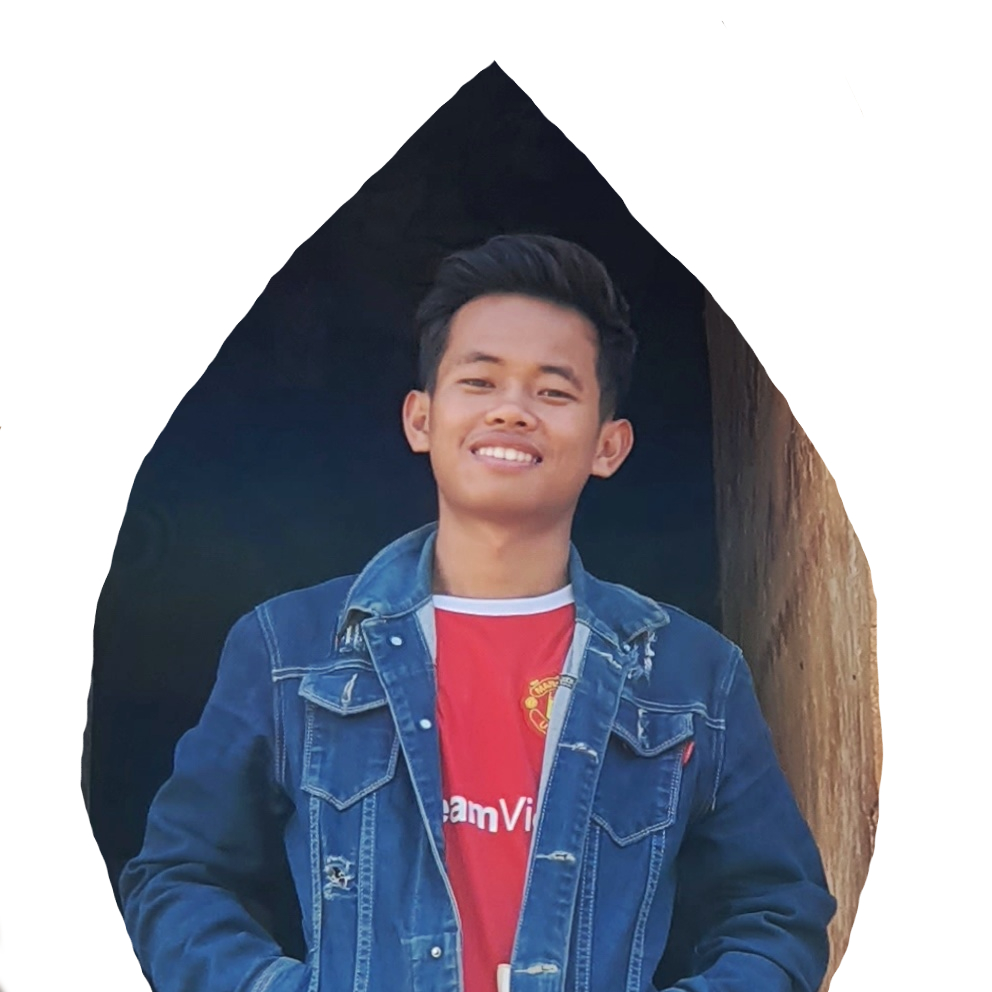
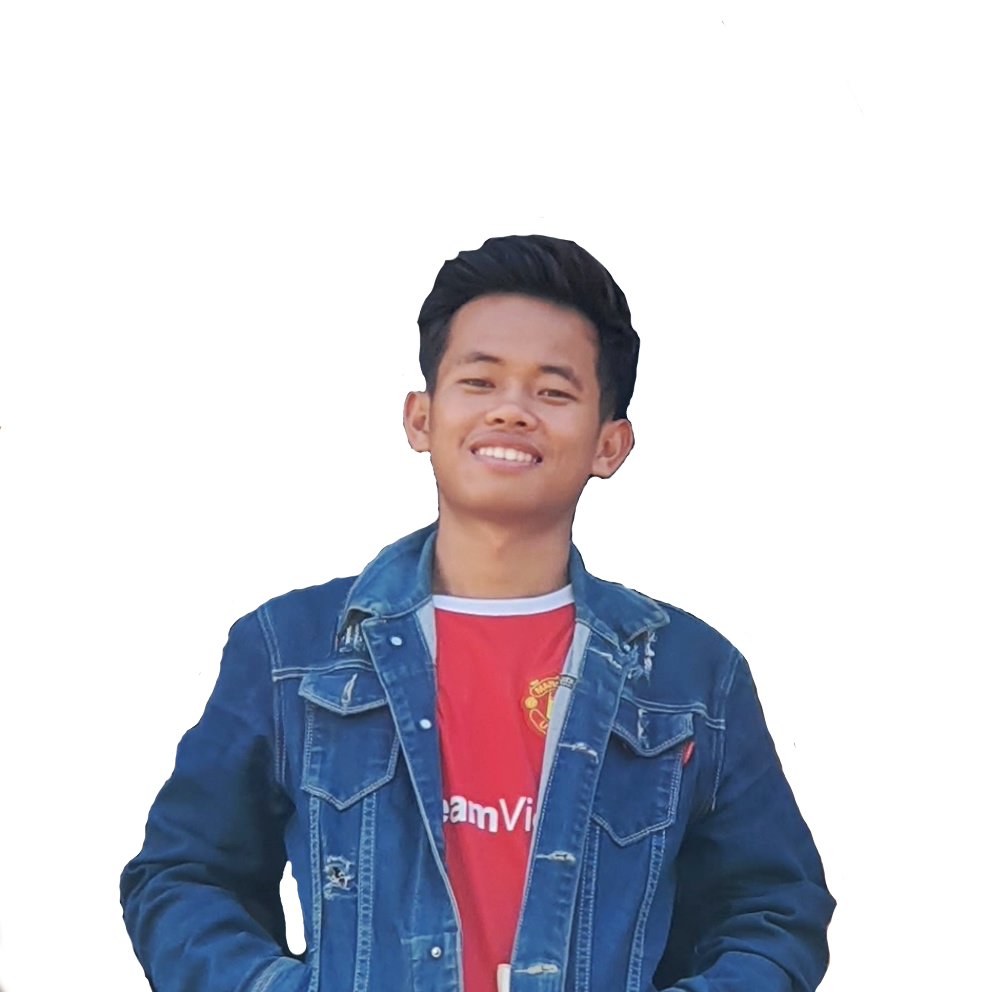
repair the nav bar and img

Changed region(s): [[0.0625, 0.0625, 0.9062, 1.0], [0.2812, 0.875, 0.3125, 0.9688]]

diff --git a/index.html b/index.html
@@ -20,7 +20,7 @@
               <a class="navbar-brand text-dark" href="#">thurahex</a>
               <div class="collapse navbar-collapse" id="navbarTogglerDemo03">
                 
-                <ul class="nav nav-tabs">
+                <ul class="nav nav-pill">
                     <li class="nav-item">
                       <a class="nav-link active" aria-current="page" href="#">Home</a>
                     </li>
@@ -57,7 +57,8 @@
                     <img src="img/my.jpg" class="mb-2"height="400px" alt="">
                 </div>
             </div>
-            
+
+          
             <div class="row">
                 <div class="col-md-4 py-4 px-3 text-muted text-center">
                     HTML
